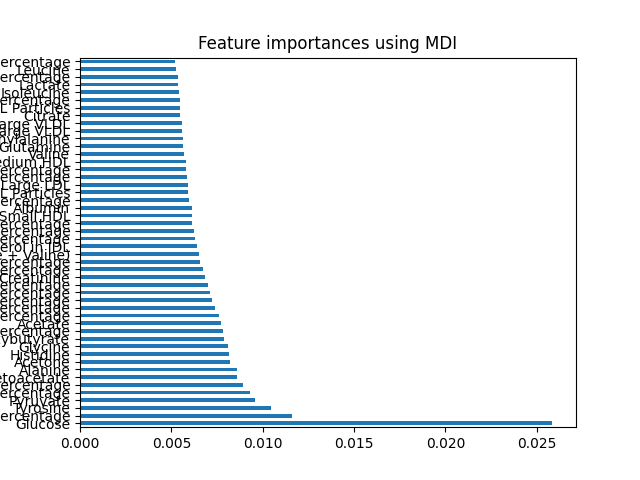
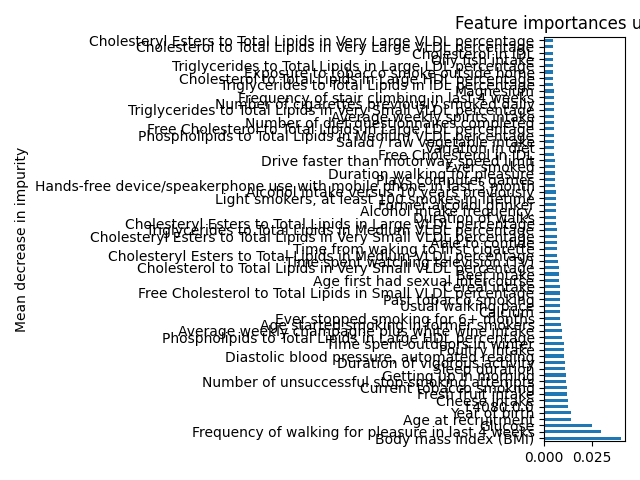
交叉验证

diff --git a/ml.py b/ml.py
@@ -2,6 +2,7 @@ import preprocess
 import module
 import matplotlib.pyplot as plt
 import numpy as np
+import pandas as pd
 
 from torchvision import transforms
 
@@ -24,7 +25,62 @@ from sklearn.ensemble import AdaBoostClassifier
 from sklearn.model_selection import GridSearchCV
 
 
+import time
+import matplotlib.pyplot as plt
+from sklearn.linear_model import LogisticRegression
+from sklearn.ensemble import RandomForestClassifier
+from sklearn.model_selection import StratifiedKFold
+from sklearn.model_selection import train_test_split, GridSearchCV, cross_val_score
+from sklearn.metrics import confusion_matrix, accuracy_score, classification_report
+from sklearn.metrics import roc_auc_score,roc_curve,f1_score, precision_score, recall_score
+from sklearn.model_selection import StratifiedShuffleSplit
+from imblearn.over_sampling import SMOTE
+
+
 # 使用机器学习的方法训练和预测
+
+# Utility function to train and evaluate a model on PIMA dataset
+def train_and_evaluate_model(model,X,y, verbose=False, n_splits=10):
+    acc = 0
+    auc = 0
+    f1 = 0
+    prec = 0
+    recall = 0
+    
+    sss = StratifiedShuffleSplit(n_splits=n_splits, test_size=0.3, random_state=123)
+    
+    start_time = time.time()
+    for train_index, test_index in sss.split(X, y):
+        if X is pd.DataFrame:
+            X_train, X_test = X.iloc[train_index], X.iloc[test_index]
+        else:
+            X_train, X_test = X[train_index], X[test_index]
+          
+        y_train, y_test = y.iloc[train_index], y.iloc[test_index]
+        model.fit(X_train, y_train)
+        y_pred = model.predict(X_test)
+        
+        acc1 = accuracy_score(y_test, y_pred)
+        auc1 = roc_auc_score(y_test, y_pred, average="macro")
+        f11 = f1_score(y_test, y_pred, average="macro")
+        prec1 = precision_score(y_test, y_pred, average="macro")
+        recall1 = recall_score(y_test, y_pred, average="macro")
+        if verbose:
+            print ('acc', acc1)
+            print('f1', f11)
+            print('recall1', recall1)
+            print('auc1', auc1)
+        acc += acc1
+        auc += auc1
+        f1 += f11
+        prec += prec1
+        recall += recall1
+        
+    spent_time = time.time() - start_time
+    print("Acc      F-Meas   Precis   Recall   AUC      Time")
+    print("%.04f\t%.04f\t%.04f\t%.04f\t%.04f\t%0.4f" % (acc/n_splits, f1/n_splits, prec/n_splits, 
+                                            recall/n_splits, auc/n_splits, spent_time))
+    
 
 
 
@@ -47,36 +103,68 @@ if __name__ == '__main__':
     # 数据读取，在module文件下设置取前几个特征
     train_dataset = module.DiabetesDataset(transform, total_data, ground_true_data, ecg_paths)
 
+    X = train_dataset.X
+    y = ground_true_data.T2D
+    # oversample = SMOTE(random_state=123)
+    # X, y = oversample.fit_resample(X, y)   
+
     # 数据集内的数据取出划分
-    X_train, X_val, y_train, y_val = train_test_split(train_dataset.X, ground_true_data.T2D, test_size=0.2, random_state=42)
+    X_train, X_val, y_train, y_val = train_test_split(X, y, test_size=0.2, random_state=42)
 
 
 
+    # Create tuned model for RF
+    rf_tuned_nofs_nobl = RandomForestClassifier(max_depth = 5,  max_features = None, 
+                            criterion = 'entropy', n_estimators = 100, random_state=123)
+
+    # Train and evaluate the Random Forest Model
+    train_and_evaluate_model(rf_tuned_nofs_nobl, X_train, y_train, verbose=False)
+
+    # Do prediction (example) with the trained model
+    y_pred = rf_tuned_nofs_nobl.predict(X_val)
+
+    # if We have the labels with can also evaluate the prediction        
+    acc1 = accuracy_score(y_val, y_pred)
+    auc1 = roc_auc_score(y_val, y_pred, average="macro")
+    f11 = f1_score(y_val, y_pred, average="macro")
+    prec1 = precision_score(y_val, y_pred, average="macro")
+    recall1 = recall_score(y_val, y_pred, average="macro")
+    print ('acc', acc1)
+    print('f1', f11)
+    print('recall1', recall1)
+    print('auc1', auc1)
 
 
-    # 决策树
+
+    # # 决策树
     # clf1 = DecisionTreeClassifier(max_depth=None, min_samples_split=2,
     # random_state=0)
     # clf1.fit(X_train, y_train)
-    # print(accuracy_score(clf1.predict(X_val), y_val))
+    # y_pred1 = clf1.predict(X_val)
+    # print(accuracy_score(y_pred1, y_val))
 
-    # 随机森林
+    # # 随机森林
     # clf2 = RandomForestClassifier(n_estimators=10, max_depth=None,
     #     min_samples_split=2, random_state=0)
     # clf2.fit(X_train, y_train)
-    # print(accuracy_score(clf2.predict(X_val), y_val))
+    # y_pred2 = clf2.predict(X_val)
+    # print(accuracy_score(y_pred2, y_val))
 
-    # 极端决策树
+    # # 极端决策树
     # clf3 = ExtraTreesClassifier(n_estimators=10, max_depth=None,
     #     min_samples_split=2, random_state=0)
     # clf3.fit(X_train, y_train)
-    # print(accuracy_score(clf3.predict(X_val), y_val))
-    
+    # y_pred3 = clf3.predict(X_val)
+    # print(accuracy_score(y_pred3, y_val))
 
 
+    # y_pred = y_pred1 + y_pred2 + y_pred3
+    # y_pred = np.where(y_pred >= 2, 1, 0)
+    # print(y_pred)
+    # print(accuracy_score(y_pred, y_val))
 
 
-    # 集成训练，用多个决策树来集成一个大模型，这里用100个
+    # # 集成训练，用多个决策树来集成一个大模型，这里用100个
     # clf1 = AdaBoostClassifier(n_estimators=100, algorithm="SAMME")
     # clf1.fit(X_train, y_train)
     # y_pred = clf1.predict(X_val)
@@ -121,42 +209,42 @@ if __name__ == '__main__':
 
 
 
-    # 决策树分类器
-    # max_depth决策树最大深度
-    # criterion = gini/entropy 可以用来选择用基尼指数或者熵来做损失函数。
-    base_model = DecisionTreeClassifier(max_depth=1, criterion='gini',random_state=1).fit(X_train, y_train)
-    y_pred = base_model.predict(X_val)  # 预测模型结果
-    print(f"决策树的准确率：{accuracy_score(y_val, y_pred):.3f}")
+    # # 决策树分类器
+    # # max_depth决策树最大深度
+    # # criterion = gini/entropy 可以用来选择用基尼指数或者熵来做损失函数。
+    # base_model = DecisionTreeClassifier(max_depth=1, criterion='gini',random_state=1).fit(X_train, y_train)
+    # y_pred = base_model.predict(X_val)  # 预测模型结果
+    # print(f"决策树的准确率：{accuracy_score(y_val, y_pred):.3f}")
 
-    model = AdaBoostClassifier(
-                                n_estimators=50,
-                                learning_rate=0.4,
-                                algorithm='SAMME',
-                                random_state=1)
-    model.fit(X_train, y_train)
-    y_pred = model.predict(X_val)
-    print(f"AdaBoost的准确率：{accuracy_score(y_val,y_pred):.3f}")
+    # model = AdaBoostClassifier(
+    #                             n_estimators=50,
+    #                             learning_rate=0.4,
+    #                             algorithm='SAMME',
+    #                             random_state=1)
+    # model.fit(X_train, y_train)
+    # y_pred = model.predict(X_val)
+    # print(f"AdaBoost的准确率：{accuracy_score(y_val,y_pred):.3f}")
 
-    # 测试估计器个数的影响
-    x = list(range(2, 102, 2))
-    y = []
+    # # 测试估计器个数的影响
+    # x = list(range(2, 102, 2))
+    # y = []
 
-    for i in x:
-        model = AdaBoostClassifier(
-                                n_estimators=i,
-                                learning_rate=0.4,
-                                algorithm='SAMME',
-                                random_state=1)
-        model.fit(X_train, y_train)
-        model_test_sc = accuracy_score(y_val, model.predict(X_val))
-        y.append(model_test_sc)
+    # for i in x:
+    #     model = AdaBoostClassifier(
+    #                             n_estimators=i,
+    #                             learning_rate=0.4,
+    #                             algorithm='SAMME',
+    #                             random_state=1)
+    #     model.fit(X_train, y_train)
+    #     model_test_sc = accuracy_score(y_val, model.predict(X_val))
+    #     y.append(model_test_sc)
 
-    plt.style.use('ggplot')
-    plt.title("Effect of n_estimators", pad=20)
-    plt.xlabel("Number of base estimators")
-    plt.ylabel("Test accuracy of AdaBoost")
-    plt.plot(x, y)
-    plt.savefig('./out/ada.png')
+    # plt.style.use('ggplot')
+    # plt.title("Effect of n_estimators", pad=20)
+    # plt.xlabel("Number of base estimators")
+    # plt.ylabel("Test accuracy of AdaBoost")
+    # plt.plot(x, y)
+    # plt.savefig('./out/ada.png')
 
     # 使用GridSearchCV自动调参
     # GridSearch和CV，即网格搜索和交叉验证。

diff --git a/module.py b/module.py
@@ -11,29 +11,37 @@ from torch.utils.data import Dataset
 
 
 # 基础前48
-TOP_BASE_COLUMNS = ['Body mass index (BMI)', 'Age at recruitment', 'f.4080.0.0',
-    'Year of birth', 'Diastolic blood pressure, automated reading',
-    'Oily fish intake', 'Age started smoking in former smokers',
-    'Frequency of stair climbing in last 4 weeks', 'Duration of walks',
-    'Time from waking to first cigarette', 'Average weekly spirits intake',
-    'Usual walking pace', 'Alcohol intake versus 10 years previously',
-    'Frequency of solarium/sunlamp use', 'Variation in diet',
-    'Getting up in morning',
-    'Light smokers, at least 100 smokes in lifetime',
-    'Number of cigarettes previously smoked daily', 'Snoring',
-    'Cheese intake', 'Magnesium', 'Time spent outdoors in winter',
-    'Sleeplessness / insomnia', 'Time spend outdoors in summer',
-    'Weekly usage of mobile phone in last 3 months', 'Cereal intake',
-    'Ever smoked', 'Englyst dietary fibre', 'Salt added to food',
-    'Frequency of walking for pleasure in last 4 weeks',
-    'Processed meat intake', 'Exposure to tobacco smoke outside home',
-    'Alcohol intake frequency.', 'Poultry intake', 'Sex',
-    'Age first had sexual intercourse', 'Length of mobile phone use',
-    'Ever stopped smoking for 6+ months', 'Vitamin E', 'Sleep duration',
-    'Able to confide', 'Exposure to tobacco smoke at home',
+TOP_BASE_COLUMNS = ['Body mass index (BMI)',
+    'Frequency of walking for pleasure in last 4 weeks', 'Cheese intake',
+    'Year of birth', 'Age at recruitment', 'f.4080.0.0',
+    'Current tobacco smoking', 'Fresh fruit intake', 'Poultry intake',
+    'Getting up in morning', 'Duration of vigorous activity',
+    'Diastolic blood pressure, automated reading', 'Sleep duration',
     'Number of unsuccessful stop-smoking attempts',
-    'Former alcohol drinker', 'Number of diet questionnaires completed',
-    'Drive faster than motorway speed limit', 'Calcium', 'Beef intake']
+    'Average weekly champagne plus white wine intake',
+    'Time spent outdoors in winter', 'Ever stopped smoking for 6+ months',
+    'Age started smoking in former smokers',
+    'Time spent watching television (TV)', 'Cereal intake',
+    'Past tobacco smoking', 'Age first had sexual intercourse', 'Calcium',
+    'Light smokers, at least 100 smokes in lifetime', 'Beef intake',
+    'Alcohol intake versus 10 years previously', 'Duration of walks',
+    'Usual walking pace', 'Able to confide',
+    'Time from waking to first cigarette', 'Former alcohol drinker',
+    'Hands-free device/speakerphone use with mobile phone in last 3 month',
+    'Vitamin E', 'Magnesium', 'Duration walking for pleasure',
+    'Frequency of stair climbing in last 4 weeks',
+    'Drive faster than motorway speed limit', 'Alcohol intake frequency.',
+    'Average weekly spirits intake', 'Plays computer games', 'Ever smoked',
+    'Processed meat intake', 'Salad / raw vegetable intake', 'Sex',
+    'Oily fish intake', 'Number of cigarettes previously smoked daily',
+    'Weekly usage of mobile phone in last 3 months',
+    'Sleeplessness / insomnia', 'Englyst dietary fibre',
+    'Exposure to tobacco smoke outside home',
+    'Number of diet questionnaires completed', 'Variation in diet',
+    'Time spend outdoors in summer', 'Salt added to food', 'Vitamin C',
+    'Snoring', 'Exposure to tobacco smoke at home', 'Iron',
+    'Frequency of solarium/sunlamp use', 'Length of mobile phone use',
+    'Nap during day']
 
 # 血液前48
 TOP_NMR_COLUMNS = ['Glucose',
@@ -88,10 +96,10 @@ TOP_NMR_COLUMNS = ['Glucose',
     'Cholesterol in Large HDL']
 
 # 用来训练的基础特征
-USE_BASE_COLUMNS = TOP_BASE_COLUMNS[:64]
+USE_BASE_COLUMNS = TOP_BASE_COLUMNS[:5]
 
 # 用来训练的血液特征
-USE_NMR_COLUMNS = TOP_NMR_COLUMNS[:64]
+USE_NMR_COLUMNS = TOP_NMR_COLUMNS[:5]
 
 # 取多少个特征
 COLUMNS = len(USE_BASE_COLUMNS) + len(USE_NMR_COLUMNS)

diff --git a/preprocess.py b/preprocess.py
@@ -67,7 +67,7 @@ def read_data(path):
     return pd.merge(baseline_data, life_style_data), nmr_data, ground_true_data
 
 # 如果某个特征的缺失比例超过阈值，就把该列特征去掉
-def drop_nan_column(data : pd.DataFrame, thresh=0.0):
+def drop_nan_column(data : pd.DataFrame, thresh=0.2):
     # 剔除缺失大于阈值的列
     # print(data.shape)
     data = data.dropna(axis=1, thresh=data.shape[0] * (1 - thresh)) # (3200, 75) -> (3200, 49)
@@ -77,15 +77,15 @@ def drop_nan_column(data : pd.DataFrame, thresh=0.0):
 # 填充缺失值
 def fill_nan_data(data : pd.DataFrame):
     # https://scikit-learn.org/stable/modules/generated/sklearn.impute.IterativeImputer.html#sklearn.impute.IterativeImputer
-    imp = IterativeImputer(estimator=BayesianRidge(), n_nearest_features=None, imputation_order='ascending')
-    data = imp.fit_transform(data)
-
-    # imp = SimpleImputer(missing_values=np.nan, strategy='mean')
+    # imp = IterativeImputer(estimator=BayesianRidge(), n_nearest_features=None, imputation_order='ascending')
     # data = imp.fit_transform(data)
+
+    imp = SimpleImputer(missing_values=np.nan, strategy='mean')
+    data = imp.fit_transform(data)
     return data
 
 # 正则化
-def normalize_data(data):
+def normalize_data(data : pd.DataFrame):
     # standard_scaler = StandardScaler()
     # data = standard_scaler.fit_transform(data)
 
@@ -98,14 +98,24 @@ def normalize_data(data):
     # min_max_scaler = MinMaxScaler()
     # data = min_max_scaler.fit_transform(data)
 
-    # 数据正态分布在y轴附近
+    # 把数据缩放在0~1
     # https://scikit-learn.org/stable/modules/preprocessing.html#scaling-features-to-a-range
-    max_abs_scaler = MaxAbsScaler()
-    data = max_abs_scaler.fit_transform(data)
+    # max_abs_scaler = MaxAbsScaler()
+    # data = max_abs_scaler.fit_transform(data)
 
     # l2正则化
     # https://scikit-learn.org/stable/modules/preprocessing.html#normalization
     # data = normalize(data, norm='l2')
+
+    data = data.astype(np.float64)
+    for column, value in data.items():
+        value = value.to_frame()
+
+        scaler = MinMaxScaler().fit(value)
+        # scaler = QuantileTransformer(output_distribution='normal', random_state=0).fit(value)
+
+        data.loc[:,column] = scaler.transform(value)
+
     return data
 
 # 加载数据
@@ -120,7 +130,7 @@ def load_data(path):
     # 基础数据
     base_data.rename(columns=field_names, inplace=True)
     base_data.drop('f.eid', axis=1, inplace=True)
-    processed_base_data = pd.DataFrame(normalize_data(fill_nan_data(drop_nan_column(base_data, thresh=0.2))))
+    processed_base_data = pd.DataFrame(fill_nan_data(normalize_data(drop_nan_column(base_data, thresh=0.8))))
     # processed_base_data = pd.DataFrame(fill_nan_data(drop_nan_column(base_data, thresh=0.2)))
     processed_base_data.rename(columns={ i : base_data.columns.to_list()[i] for i in range(0, len(base_data.columns)) }, inplace=True)
     # print(processed_base_data)
